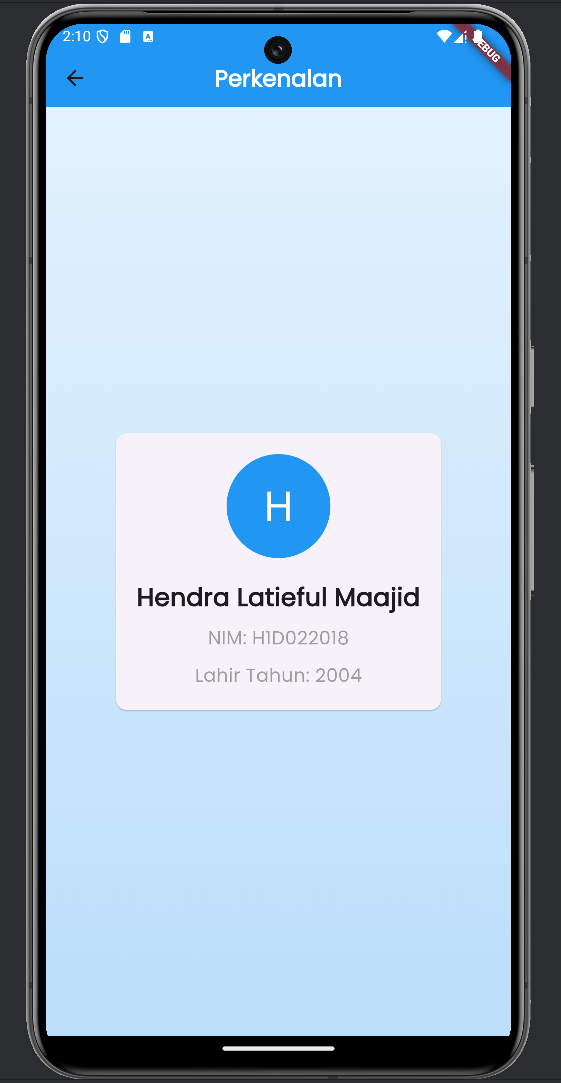
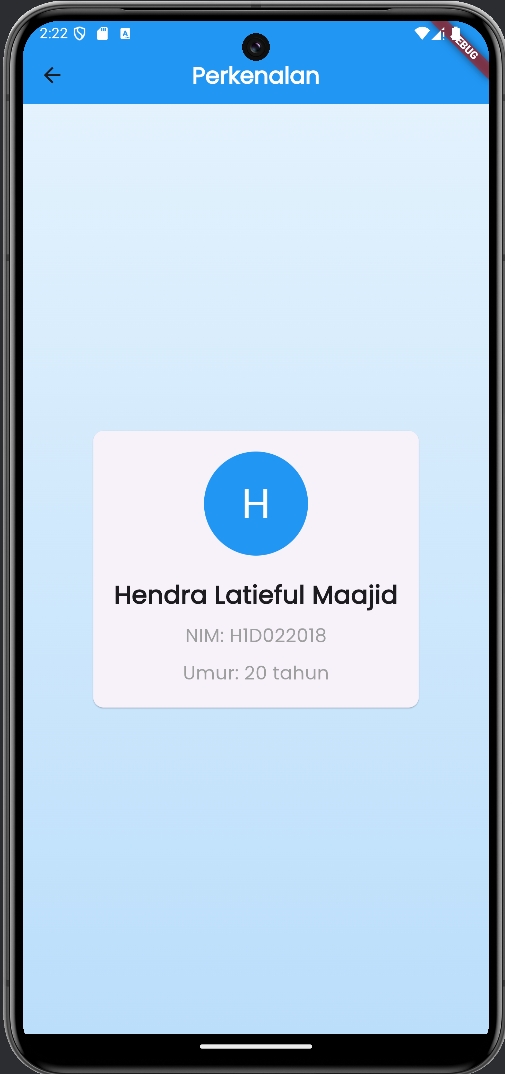
membetulkan tugas

diff --git a/lib/ui/tampil_data.dart b/lib/ui/tampil_data.dart
@@ -14,6 +14,7 @@ class TampilData extends StatelessWidget {
 
   @override
   Widget build(BuildContext context) {
+    final int umur = DateTime.now().year - tahun;
     return Scaffold(
       appBar: AppBar(
         title: const Text(
@@ -59,7 +60,7 @@ class TampilData extends StatelessWidget {
                   ),
                   const SizedBox(height: 10),
                   Text(
-                    "Lahir Tahun: $tahun",
+                    "Umur: $umur tahun",
                     style: const TextStyle(fontSize: 18, color: Colors.grey),
                   ),
                 ],

diff --git a/README.md b/README.md
@@ -38,9 +38,9 @@ Shift Baru: F
 3. **Persiapan Data untuk Passing**
     - Jika validasi berhasil, data diambil dari controller melalui:
       ```dart
-      String nama = _namaController.text; 
-      String nim = _nimController.text;
-      int tahun = int.parse(_tahunController.text);
+      String nama = _namaController.text; //mengambil data nama
+      String nim = _nimController.text; //mengambil data nim
+      int tahun = int.parse(_tahunController.text); //mengambil data tahun
       ```
 
 4. **Navigasi dan Passing Data**
@@ -66,6 +66,7 @@ Shift Baru: F
 6. **Penggunaan Data di TampilData**
     - Data yang diterima digunakan untuk menampilkan hasil dari inputan pengguna:
       ```dart
+      final int umur = DateTime.now().year - tahun; // data tahun digunakan untuk menghitung umur
       Text(
         nama,
         style: const TextStyle(fontSize: 24, fontWeight: FontWeight.bold),
@@ -75,12 +76,11 @@ Shift Baru: F
         style: const TextStyle(fontSize: 18, color: Colors.grey),
       ),
       Text(
-        "Lahir Tahun: $tahun",
+        "Umur: $umur tahun",
         style: const TextStyle(fontSize: 18, color: Colors.grey),
       ),
       ```
 
 ## Screenshot
-Contoh :
 ![Lampiran Form](form.png)
 ![Lampiran Hasil](hasil.png)
